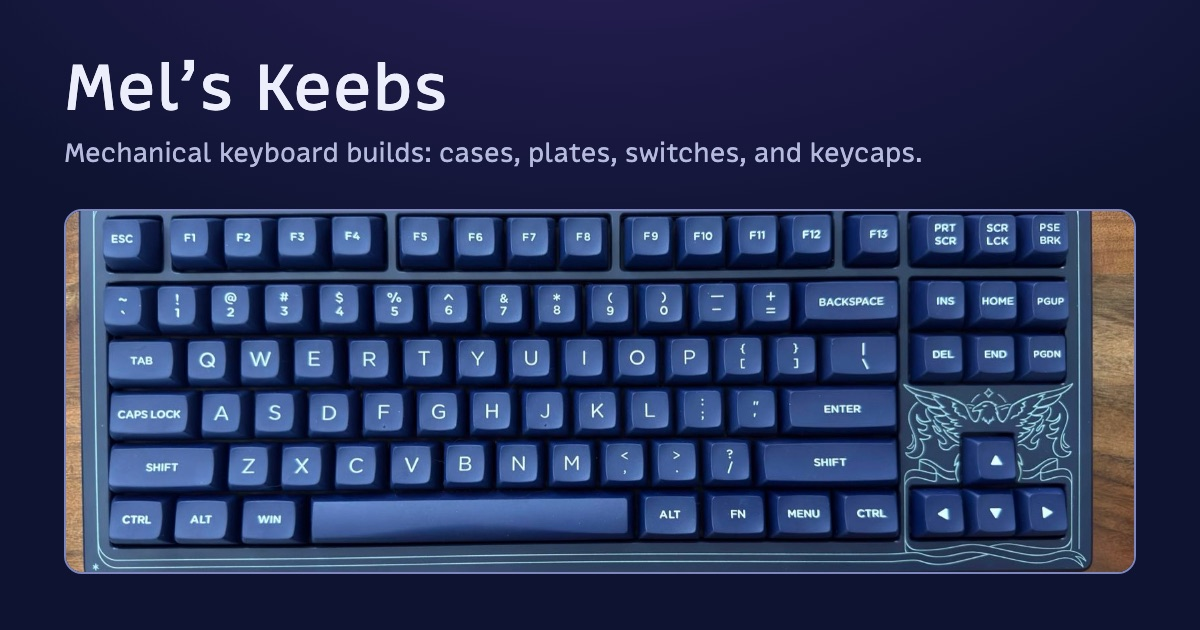
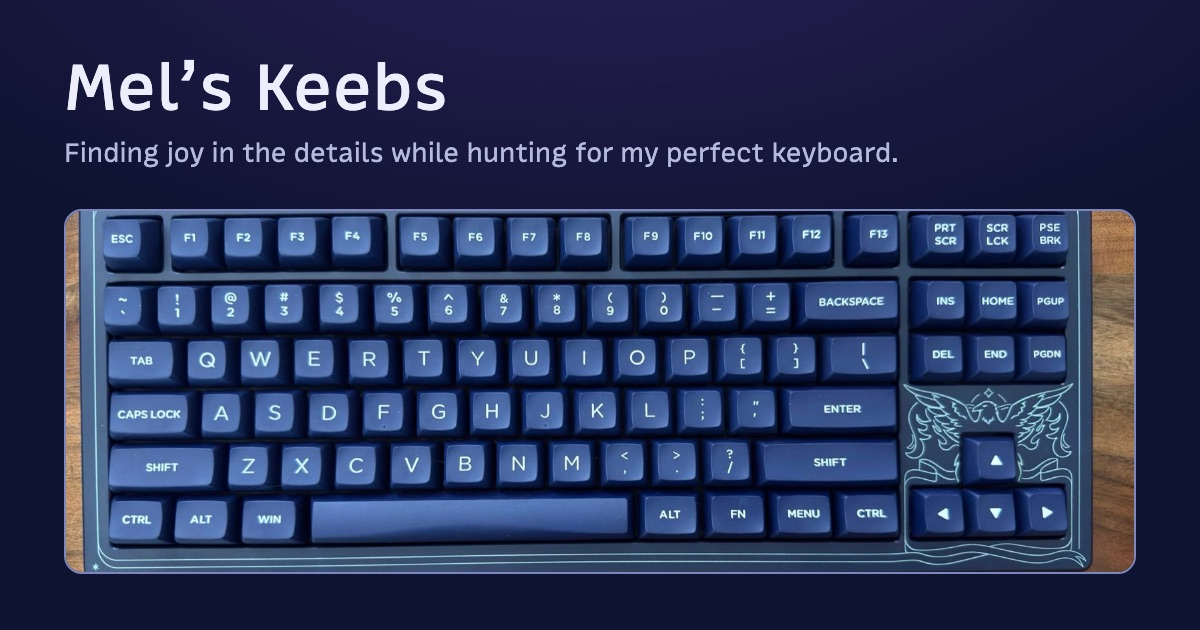
Give the site description some personality
Replace the generic meta and og:description with "Hunting for my perfect
keyboard and finding joy in the details along the way...", and use a matching
line on the link-preview image.

Changed region(s): [[0.0617, 0.2111, 0.7708, 0.2714]]

diff --git a/index.html b/index.html
@@ -4,7 +4,7 @@
   <meta charset="utf-8">
   <meta name="viewport" content="width=device-width, initial-scale=1">
   <title>Mel’s Keebs: A Mechanical Keyboard Collection</title>
-  <meta name="description" content="A collection of mechanical keyboard builds: cases, plates, switches, and keycaps.">
+  <meta name="description" content="Hunting for my perfect keyboard and finding joy in the details along the way: the thock, the colorways, and that one keycap set I couldn’t resist.">
   <meta name="author" content="Melanie Sumner">
   <link rel="canonical" href="https://melsumner.github.io/keebs/">
   <meta name="color-scheme" content="dark">
@@ -17,7 +17,7 @@
   <meta property="og:type" content="website">
   <meta property="og:site_name" content="Mel’s Keebs">
   <meta property="og:title" content="Mel’s Keebs: A Mechanical Keyboard Collection">
-  <meta property="og:description" content="A collection of mechanical keyboard builds: cases, plates, switches, and keycaps.">
+  <meta property="og:description" content="Hunting for my perfect keyboard and finding joy in the details along the way: the thock, the colorways, and that one keycap set I couldn’t resist.">
   <meta property="og:url" content="https://melsumner.github.io/keebs/">
   <meta property="og:locale" content="en_US">
   <meta property="og:image" content="https://melsumner.github.io/keebs/images/og-preview.jpg">

diff --git a/tools/og-image.html b/tools/og-image.html
@@ -37,7 +37,7 @@
 <body>
   <div>
     <h1>Mel’s Keebs</h1>
-    <p>Mechanical keyboard builds: cases, plates, switches, and keycaps.</p>
+    <p>Finding joy in the details while hunting for my perfect keyboard.</p>
   </div>
   <div class="photo"><img src="../images/kb-10-IMG_1375.jpg" alt=""></div>
 </body>
